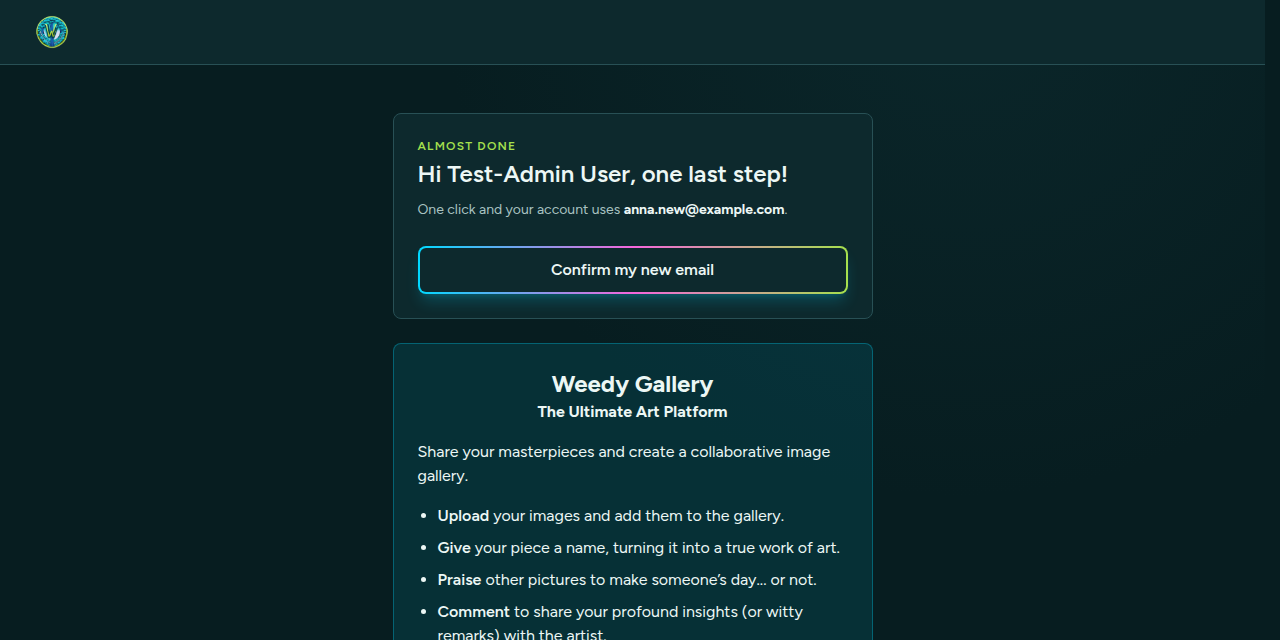
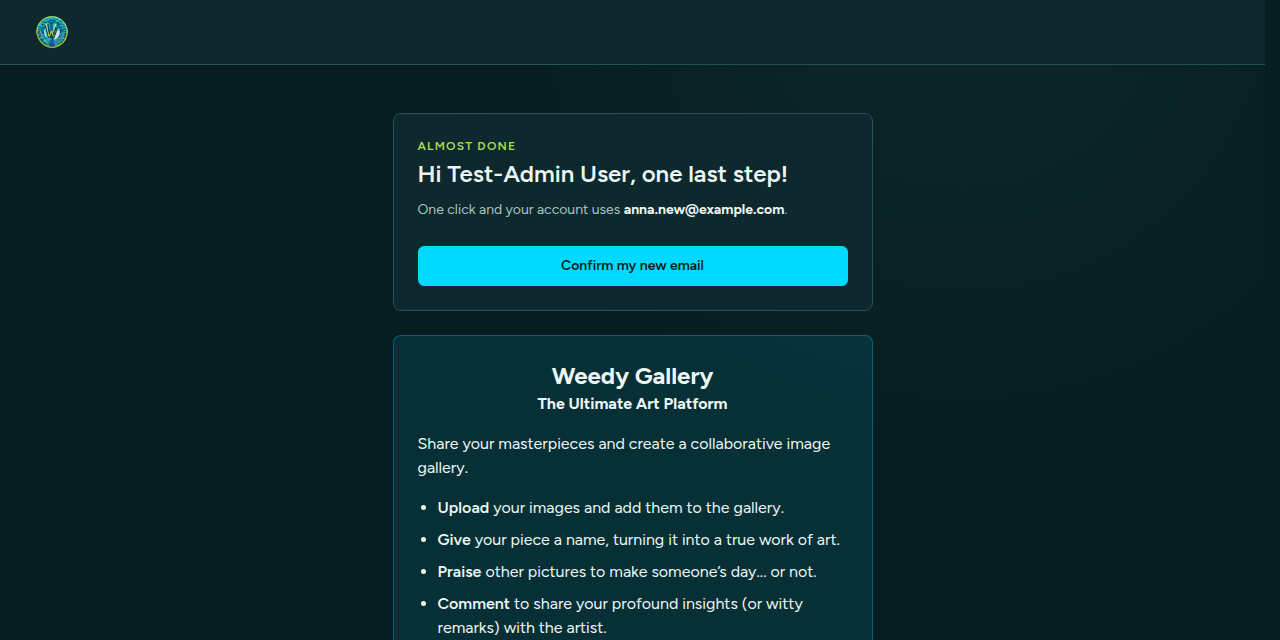
style(profile): plain primary button on the email confirm page

diff --git a/src/resources/views/profile/confirm-email.blade.php b/src/resources/views/profile/confirm-email.blade.php
@@ -8,6 +8,6 @@
 
     <form class="mt-6" method="POST" action="{{ $action }}">
         @csrf
-        <x-glow-button>{{ __('Confirm my new email') }}</x-glow-button>
+        <x-primary-button class="w-full">{{ __('Confirm my new email') }}</x-primary-button>
     </form>
 </x-guest-layout>

diff --git a/docs/features/FEAT-021-registration-link-safe-from-mail-scanners.md b/docs/features/FEAT-021-registration-link-safe-from-mail-scanners.md
@@ -28,7 +28,7 @@ Outlook Safe Links, Defender and some mail gateways open links in incoming mails
 - [x] An invalid or expired link still shows the "link does not work" page on GET.
 - [x] Email change: `GET profile/email/confirm/{user}/{hash}` (signed) only shows a page with the new email and a "Confirm my new email" button, the `POST` to the same signed URL switches the email.
 - [x] A link that was already used says "Your email is already changed to …" instead of "was not changed".
-- [x] Both pages use the same button (`x-glow-button`).
+- [x] The registration page uses the gradient button (`x-glow-button`), the email change page the normal primary button.
 - [x] Tests and validation passed (container, 174 tests).
 
 ## Technical Implementation Notes
